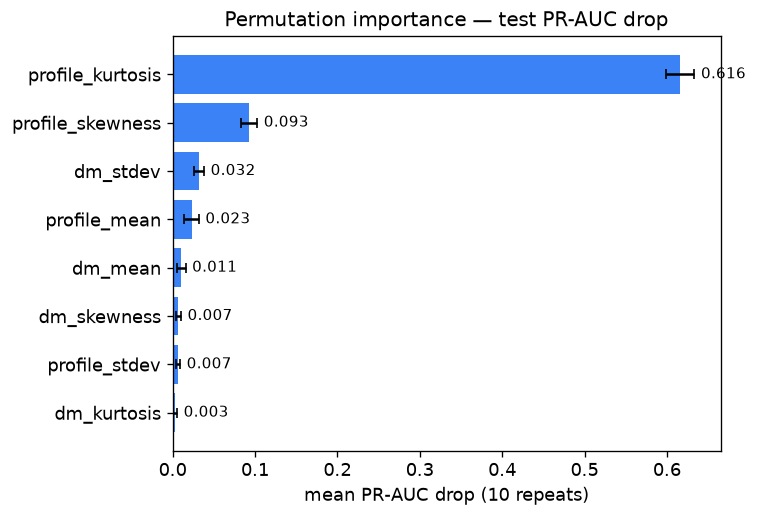
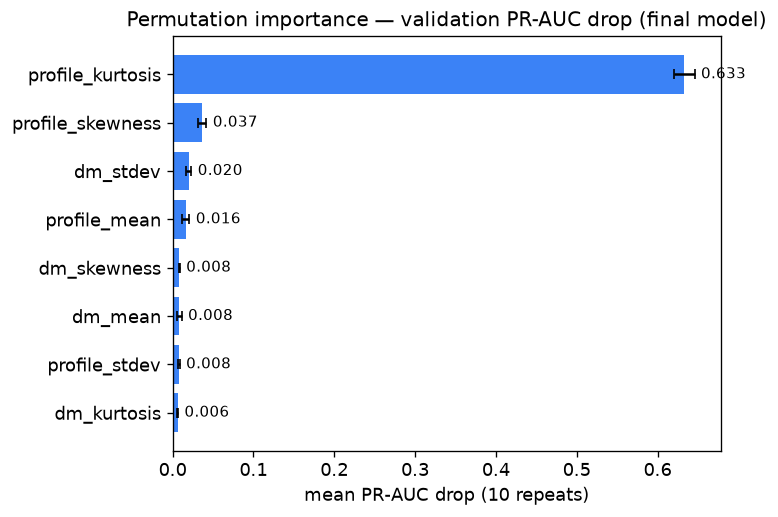
Site figures on new-protocol basis: calibration study, validation importance, cost curve added

diff --git a/docs/index.html b/docs/index.html
@@ -62,9 +62,11 @@ footer{color:var(--mut);font-size:.85rem;margin-top:32px}
 <p><strong>Final test evaluation (single pass, SEED=42):</strong> ROC-AUC <span class="ok">0.9777 ✓</span> (target ≥ 0.97; 95% CI 0.9671–0.9872) · PR-AUC 0.9332 (0.9117–0.9542) · precision @ T=0.54 <strong>0.9183</strong> · recall <strong>0.8567</strong> (CIs: precision 0.8889–0.9461, recall 0.8201–0.8933) · Brier 0.0166 · ECE 0.0099 · confusion TN 3227 / FP 25 / FN 47 / TP 281. Threshold T=0.54 chosen by the 10:1 cost model on train+val (FN=0 at 42 false alarms on the selection set); all of 5:1/10:1/20:1 select the same threshold.</p>
 <p class="miss">Honest misses: the joint target (recall ≥ 0.90 at precision ≥ 0.90) is not met at the cost-minimising threshold (recall 0.8567). Calibration improved nothing out of sample — the class-weighted raw forest is already near-calibrated (ECE 0.0099) and isotonic would collapse the ranking; "no calibration" is the measured, reported answer. Predictions, metrics and model hashes persisted in <code>results/</code>.</p>
 <div class="grid">
-<div><img src="assets/reliability.png" alt="Reliability diagram"><p>Reliability diagram (test): calibrated vs raw RF.</p></div>
-<div><img src="assets/learning_curve.png" alt="Learning curve"><p>Learning curve (PR-AUC): still rising — more labels would help.</p></div>
+<div><img src="assets/reliability.png" alt="Calibration study: reliability + CV Brier by method"><p>Calibration study (train+val basis): final raw-RF reliability + mean CV Brier by method (5×2 cross-fitted) — <strong>"none" selected</strong>; differences sit inside the CV noise band.</p></div>
+<div><img src="assets/learning_curve.png" alt="Learning curve"><p>Learning curve (PR-AUC, train-set CV): still rising — more labels would help.</p></div>
 </div>
+<p><img class="full" src="assets/cost_curve.png" alt="Expected-cost curve on train+val with chosen T marked"></p>
+<p>Expected-cost curve on train+val: minimum at <strong>T = 0.54</strong> — zero missed pulsars at 42 false alarms on the selection set; all three cost ratios (5:1, 10:1, 20:1) select the same threshold.</p>
 <p><img class="full" src="assets/importance.png" alt="Permutation importance"></p>
 <p>Permutation importance (validation set): <code>profile_kurtosis</code> dominates (PR-AUC drop 0.633) — pulse shape (sharp lighthouse blink vs noise smear) carries the signal, DM statistics confirm. Matches the astrophysics. Ablation on the winning CNN agrees: profile-only ROC 0.977 / PR 0.925, DM-only 0.896 / 0.373, full-8 0.982 / 0.938 — profile carries, DM refines.</p>
 </div>

diff --git a/docs/plots_all.py b/docs/plots_all.py
@@ -1,5 +1,8 @@
 """Regenerate ALL docs/assets figures with polished, non-overlapping layout.
-Deterministic SEED=42. Run: python docs/plots_all.py
+Deterministic SEED=42. §2 figures are on the new-protocol basis (train+val selection,
+single test evaluation); v2/v3/v4 supplementary figures reproduce the v1-era RF on
+purpose so they stay consistent with those notebooks.
+Run: python docs/plots_all.py
 """
 from pathlib import Path
 import urllib.request, zipfile, io
@@ -8,7 +11,7 @@ import matplotlib
 matplotlib.use("Agg")
 import matplotlib.pyplot as plt
 from matplotlib.ticker import MaxNLocator
-from sklearn.model_selection import train_test_split, StratifiedKFold, learning_curve
+from sklearn.model_selection import train_test_split, StratifiedKFold, RepeatedStratifiedKFold, learning_curve
 from sklearn.preprocessing import StandardScaler
 from sklearn.linear_model import LogisticRegression
 from sklearn.pipeline import make_pipeline
@@ -87,6 +90,31 @@ p_cnn = torch.softmax(torch.tensor(z_te), 1)[:, 1].numpy()
 p_cnnT = torch.softmax(torch.tensor(z_te) / T, 1)[:, 1].numpy()
 print(f"T={T:.3f}")
 
+# ---- new-protocol final model (classical mainline, report v1.0) ----
+X_tv = np.vstack([X_tr, X_va]); y_tv = np.hstack([y_tr, y_va])
+rf_final = RandomForestClassifier(n_estimators=400, max_depth=20, min_samples_leaf=2,
+    class_weight="balanced_subsample", random_state=SEED, n_jobs=-1).fit(X_tv, y_tv)
+
+def cross_fitted_probs(base, X, y, method, n_splits):
+    cv_in = StratifiedKFold(n_splits=n_splits, shuffle=True, random_state=SEED)
+    p = np.zeros(len(y))
+    for i_tr, i_va in cv_in.split(X, y):
+        c = CalibratedClassifierCV(estimator=FrozenEstimator(base), method=method).fit(X[i_tr], y[i_tr])
+        p[i_va] = c.predict_proba(X[i_va])[:, 1]
+    return p
+
+cv_outer = RepeatedStratifiedKFold(n_splits=5, n_repeats=2, random_state=SEED)
+cvb = {"none": [], "sigmoid": [], "isotonic": [], "cross": []}
+for tr_i, va_i in cv_outer.split(X_tv, y_tv):
+    b = RandomForestClassifier(n_estimators=400, max_depth=20, min_samples_leaf=2,
+        class_weight="balanced_subsample", random_state=SEED, n_jobs=-1).fit(X_tv[tr_i], y_tv[tr_i])
+    Xf, yf = X_tv[va_i], y_tv[va_i]
+    cvb["none"].append(brier_score_loss(yf, b.predict_proba(Xf)[:, 1]))
+    cvb["sigmoid"].append(brier_score_loss(yf, cross_fitted_probs(b, Xf, yf, "sigmoid", 3)))
+    cvb["isotonic"].append(brier_score_loss(yf, cross_fitted_probs(b, Xf, yf, "isotonic", 3)))
+    cvb["cross"].append(brier_score_loss(yf, cross_fitted_probs(b, Xf, yf, "sigmoid", 5)))
+print("CV Brier:", {k: round(float(np.mean(v)), 5) for k, v in cvb.items()})
+
 # ---- 1. balance ----
 bal = df["target"].value_counts().sort_index()
 fig, ax = plt.subplots(figsize=(5.2, 3.6))
@@ -100,15 +128,23 @@ for b, v in zip(bars, [bal[0], bal[1]]):
             ha="center", va="bottom", fontsize=10)
 fig.savefig(A / "balance.png", bbox_inches="tight"); plt.close(fig)
 
-# ---- 2. reliability (RF) ----
-fig, ax = plt.subplots(figsize=(5.4, 4.4))
-ax.plot([0, 1], [0, 1], ls="--", color="gray", label="ideal")
-for name, p, c in [("rf", p_rf, "#f59e0b"), ("rf + calibrated", p_rf_cal, "#16a34a")]:
-    ft, mp = calibration_curve(y_te, p, n_bins=10, strategy="quantile")
-    ax.plot(mp, ft, marker="o", ms=5, label=name, color=c)
-ax.set_title("Reliability diagram — Random Forest (test)")
-ax.set_xlabel("mean predicted probability"); ax.set_ylabel("fraction positive")
-ax.legend(loc="lower right", fontsize=9); ax.set_aspect("equal", adjustable="box")
+# ---- 2. calibration study (train+val basis): reliability + CV Brier by method ----
+fig, ax = plt.subplots(1, 2, figsize=(11.2, 4.3))
+ax[0].plot([0, 1], [0, 1], ls="--", color="gray", label="ideal")
+ft, mp = calibration_curve(y_tv, rf_final.predict_proba(X_tv)[:, 1], n_bins=10, strategy="quantile")
+ax[0].plot(mp, ft, marker="o", ms=5, color="#f59e0b", label="raw RF (final model)")
+ax[0].set_title("Reliability — final RF (train+val)")
+ax[0].set_xlabel("mean predicted probability"); ax[0].set_ylabel("fraction positive")
+ax[0].legend(loc="lower right", fontsize=9); ax[0].set_aspect("equal", adjustable="box")
+means = [np.mean(cvb[m]) for m in ["none", "sigmoid", "isotonic", "cross"]]
+stds = [np.std(cvb[m]) for m in ["none", "sigmoid", "isotonic", "cross"]]
+bars = ax[1].bar(["none", "sigmoid", "isotonic", "cross"], means, yerr=stds, capsize=4,
+                 color=["#16a34a", "#94a3b8", "#94a3b8", "#94a3b8"], ecolor="black")
+ax[1].set_ylim(min(means) - 0.002, max(means) + 0.002)
+for b, v in zip(bars, means):
+    ax[1].text(b.get_x() + b.get_width() / 2, v + stds[0] * 0.9, f"{v:.5f}", ha="center", fontsize=9)
+ax[1].set_title("Mean CV Brier by method (5×2, cross-fitted) — lower is better")
+ax[1].set_ylabel("mean CV Brier")
 fig.savefig(A / "reliability.png", bbox_inches="tight"); plt.close(fig)
 
 # ---- 3. learning curve ----
@@ -127,8 +163,8 @@ ax.xaxis.set_major_formatter(matplotlib.ticker.StrMethodFormatter("{x:,.0f}"))
 ax.legend(fontsize=9)
 fig.savefig(A / "learning_curve.png", bbox_inches="tight"); plt.close(fig)
 
-# ---- 4. permutation importance ----
-pi = permutation_importance(cal, X_te, y_te, n_repeats=10, random_state=SEED,
+# ---- 4. permutation importance (validation set, final model) ----
+pi = permutation_importance(rf_final, X_va, y_va, n_repeats=10, random_state=SEED,
                             n_jobs=-1, scoring="average_precision")
 order = np.argsort(pi.importances_mean)[::-1]
 fig, ax = plt.subplots(figsize=(6.2, 4.2))
@@ -137,12 +173,36 @@ ax.barh(yy, pi.importances_mean[order], xerr=pi.importances_std[order],
         color="#3b82f6", ecolor="black", capsize=3)
 ax.set_yticks(yy); ax.set_yticklabels([feats[i] for i in order])
 ax.invert_yaxis()
-ax.set_title("Permutation importance — test PR-AUC drop")
+ax.set_title("Permutation importance — validation PR-AUC drop (final model)")
 ax.set_xlabel("mean PR-AUC drop (10 repeats)")
 for j, i in enumerate(order):
     ax.text(pi.importances_mean[i] + pi.importances_std[i] + 0.008, j,
             f"{pi.importances_mean[i]:.3f}", va="center", fontsize=9)
 fig.savefig(A / "importance.png", bbox_inches="tight"); plt.close(fig)
+
+# ---- 4b. expected-cost curve (train+val, all three ratios, chosen T marked) ----
+p_tv_final = rf_final.predict_proba(X_tv)[:, 1]
+ths = np.linspace(0.05, 0.95, 91)
+fig, ax = plt.subplots(figsize=(6.6, 4.2))
+costs10, T_final = None, None
+for ratio, col in [(5, "#94a3b8"), (10, "#3b82f6"), (20, "#7c3aed")]:
+    costs = [ratio * ((p_tv_final < t) & (y_tv == 1)).sum() + ((p_tv_final >= t) & (y_tv == 0)).sum()
+             for t in ths]
+    ax.plot(ths, costs, color=col, label=f"cost ratio {ratio}:1")
+    if ratio == 10:
+        costs10, T_final = costs, float(ths[int(np.argmin(costs))])
+for ratio in (5, 20):
+    assert abs(float(ths[int(np.argmin([ratio * ((p_tv_final < t) & (y_tv == 1)).sum()
+              + ((p_tv_final >= t) & (y_tv == 0)).sum() for t in ths]))]) - T_final) < 1e-9
+ax.axvline(T_final, color="red", ls="--", lw=1.2)
+ax.text(T_final + 0.015, costs10[int(np.argmin(costs10))] * 2.2,
+        f"chosen T = {T_final:.2f}\n(all three ratios agree)", color="red", fontsize=9, va="center")
+ax.set_yscale("log")
+ax.set_xlabel("threshold"); ax.set_ylabel("expected cost  (log scale)")
+ax.set_title("Expected-cost curve on train+val (10·FN + 1·FP)")
+ax.legend(fontsize=9, loc="upper center")
+fig.savefig(A / "cost_curve.png", bbox_inches="tight"); plt.close(fig)
+print(f"T_final={T_final:.2f} | cost at T = {min(costs10)}")
 
 # ---- 5/6. CNN train curves + CNN reliability (from stored grid hist) ----
 import json as _json
